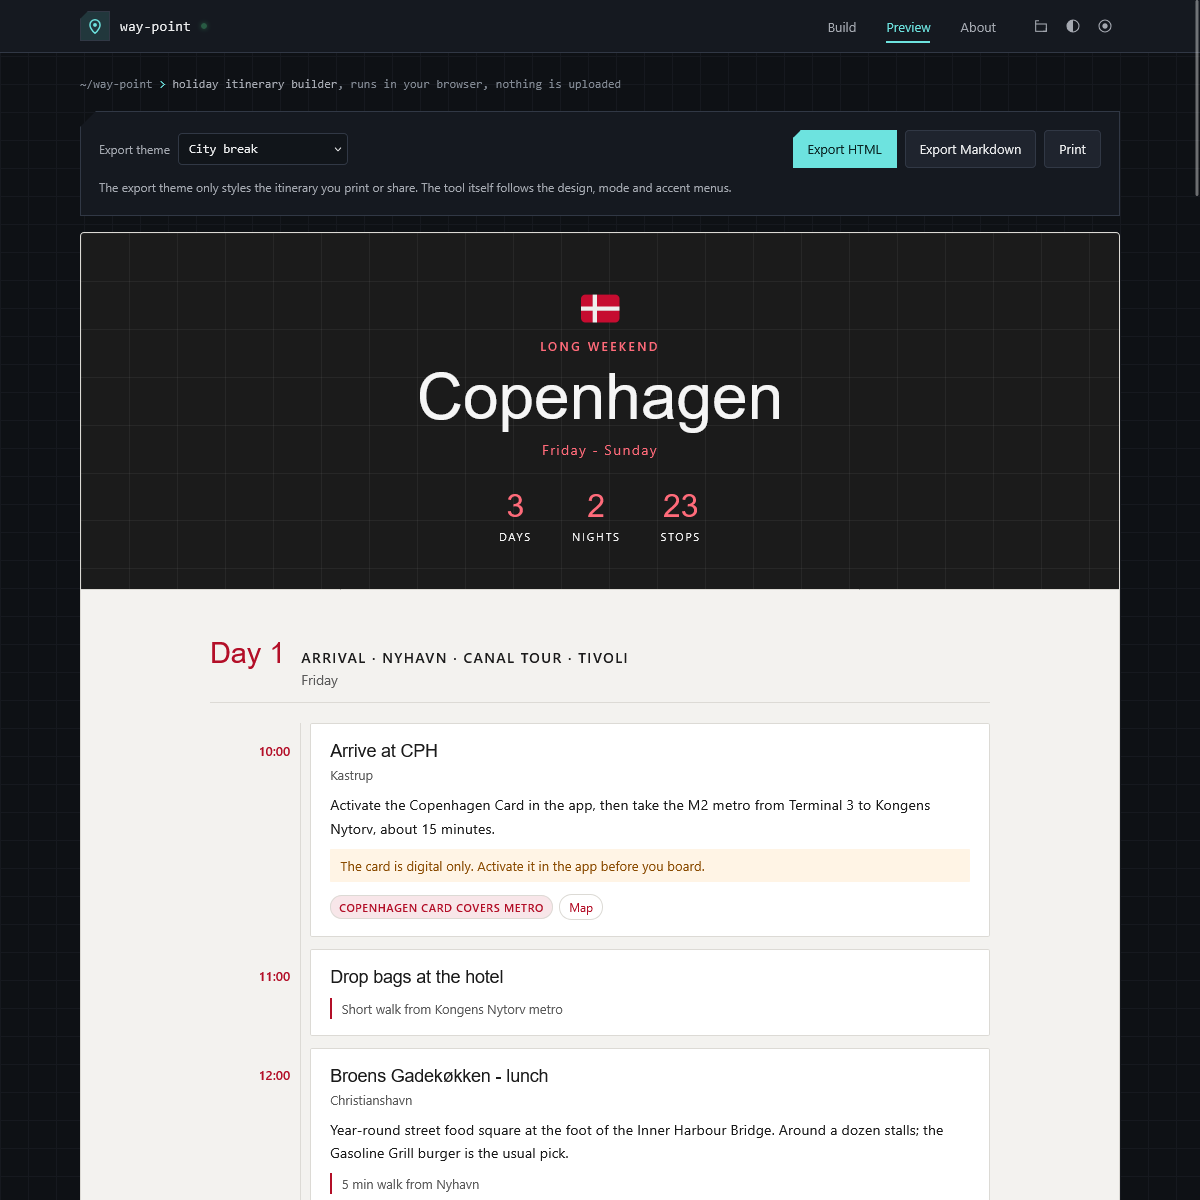
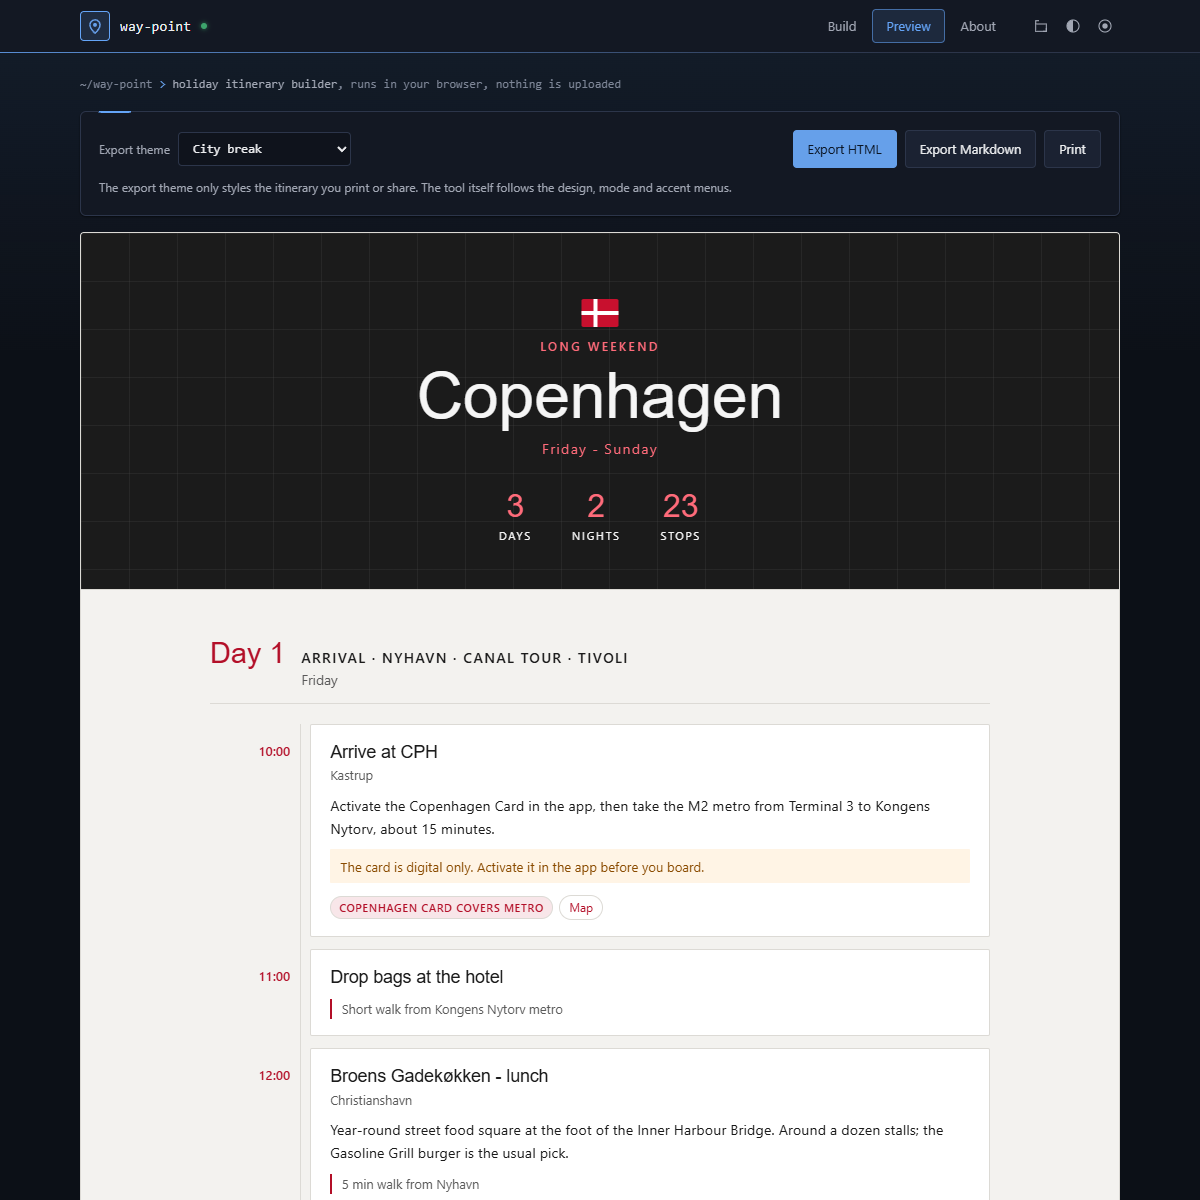
Replace the circuit design with cobalt and make it the default
Cobalt is a navy, blue-ruled design in place of the green circuit board
one. It is now the default and first in the design menu, with Azure as
the default accent. Screenshots retaken in the new default.

diff --git a/index.html b/index.html
@@ -1,5 +1,5 @@
 <!DOCTYPE html>
-<html lang="en" data-design="chamfer" data-mode="dark">
+<html lang="en" data-design="cobalt" data-mode="dark">
 <head>
 <meta charset="UTF-8">
 <meta name="viewport" content="width=device-width, initial-scale=1.0">
@@ -21,7 +21,7 @@
 
    One stylesheet, three independent axes:
 
-     data-design  chamfer | console | circuit | contour
+     data-design  cobalt | chamfer | console | contour
                   shape language, surface hue family, backdrop
                   texture, ornament. This is the "look".
 
@@ -61,15 +61,26 @@
     --ctl:      30px;   /* icon button / logo tile box */
 
     /* Accent defaults, overwritten inline by the picker. */
-    --ah: 178;
-    --ac: 68%;
+    --ah: 214;
+    --ac: 76%;
 }
 
 /* ============================================================
    Designs: hue family per mode group, shape, ornament switches
    ============================================================ */
 
-/* Cut corners, instrument grid. The house design. */
+/* Navy editor chrome, one constant blue rule. The house design. */
+html[data-design="cobalt"] {
+    --hd: 222; --sd: 30%;
+    --hw: 38;  --sw: 28%;
+    --hl: 216; --sl: 28%;
+    --radius: 6px;
+    --radius-sm: 4px;
+    --notch: 0px;
+    --notch-sm: 0px;
+}
+
+/* Cut corners, instrument grid. */
 html[data-design="chamfer"] {
     --hd: 218; --sd: 20%;    /* dark + dusk surfaces */
     --hw: 36;  --sw: 30%;    /* sepia surfaces */
@@ -87,17 +98,6 @@ html[data-design="console"] {
     --hl: 210; --sl: 7%;
     --radius: 0px;
     --radius-sm: 0px;
-    --notch: 0px;
-    --notch-sm: 0px;
-}
-
-/* Board colours, via grid, one constant plating. */
-html[data-design="circuit"] {
-    --hd: 152; --sd: 38%;
-    --hw: 40;  --sw: 34%;
-    --hl: 150; --sl: 8%;
-    --radius: 3px;
-    --radius-sm: 2px;
     --notch: 0px;
     --notch-sm: 0px;
 }
@@ -135,7 +135,7 @@ html[data-mode="dark"] {
     --warn: hsl(41 86% 60%);
     --bad:  hsl(5 85% 66%);
     --ok-ink: hsl(146 60% 8%);
-    --copper: #d3a24a;
+    --cobalt: hsl(214 90% 68%);
 }
 
 /* "Not as dark": same palette lifted off black, for rooms with
@@ -156,7 +156,7 @@ html[data-mode="dusk"] {
        3.96:1 and missed AA. This clears it at 4.51:1. */
     --bad:  hsl(5 82% 72%);
     --ok-ink: hsl(146 60% 9%);
-    --copper: #dcae5c;
+    --cobalt: hsl(214 88% 74%);
 }
 
 /* Warm paper. Bright but low glare. */
@@ -176,7 +176,7 @@ html[data-mode="sepia"] {
     --warn: hsl(32 78% 33%);
     --bad:  hsl(2 68% 44%);
     --ok-ink: hsl(40 40% 97%);
-    --copper: #96681a;
+    --cobalt: hsl(216 62% 38%);
 }
 
 /* Cool white. The print-adjacent one. */
@@ -194,7 +194,7 @@ html[data-mode="light"] {
     --warn: hsl(32 80% 33%);
     --bad:  hsl(2 70% 45%);
     --ok-ink: hsl(150 30% 99%);
-    --copper: #8a6410;
+    --cobalt: hsl(216 72% 42%);
 }
 
 /* ============================================================
@@ -281,13 +281,11 @@ html[data-design="console"] body::before {
         var(--line-soft) 0 1px, transparent 1px 6px);
     opacity: 0.32;
 }
-/* Via holes: a plated ring around a hole the colour of the board. */
-html[data-design="circuit"] body::before {
-    background-image:
-        radial-gradient(circle, var(--line) 1.4px, transparent 1.6px),
-        radial-gradient(circle, var(--bg) 0.7px, transparent 0.9px);
-    background-size: 30px 30px, 30px 30px;
-    opacity: 0.55;
+/* A faint blue light falling from the top edge, like a lit screen. */
+html[data-design="cobalt"] body::before {
+    background-image: linear-gradient(180deg,
+        color-mix(in srgb, var(--cobalt) 9%, transparent), transparent 360px);
+    opacity: 1;
 }
 /* A single soft wash in the current accent, and nothing else. */
 html[data-design="contour"] body::before {
@@ -327,17 +325,15 @@ html[data-design="chamfer"] .chamfer-sm {
     background: var(--card);
     border-bottom: 1px solid var(--line);
 }
-/* Circuit only: the gold contact fingers of a card-edge connector,
-   kept to a hairline so it reads as an edge and not a stripe. */
-html[data-design="circuit"] .topbar::after {
+/* Cobalt only: a blue hairline under the bar that fades out to the
+   right, so it reads as an edge and not a stripe. */
+html[data-design="cobalt"] .topbar::after {
     content: "";
     position: absolute;
-    left: 0; right: 0; bottom: -2px;
-    height: 2px;
-    background: repeating-linear-gradient(90deg,
-        var(--copper) 0, var(--copper) 5px,
-        transparent 5px, transparent 8px);
-    opacity: 0.7;
+    left: 0; right: 0; bottom: -1px;
+    height: 1px;
+    background: linear-gradient(90deg, var(--cobalt), transparent 75%);
+    opacity: 0.8;
 }
 /* Console only: the bar sits on a second hairline, like a rule under
    a header in a terminal UI. Drawn as a shadow, so it takes no space. */
@@ -407,7 +403,7 @@ html[data-design="chamfer"] .logo {
     border-radius: 0;
     clip-path: polygon(8px 0, 100% 0, 100% 100%, 0 100%, 0 8px);
 }
-html[data-design="circuit"] .logo { border-color: var(--copper); }
+html[data-design="cobalt"] .logo { border-color: var(--cobalt); }
 html[data-design="contour"] .logo { border-radius: 50%; }
 @keyframes logo-in {
     from { opacity: 0; transform: scale(0.75); }
@@ -451,7 +447,14 @@ html[data-design="contour"] .tab[aria-selected="true"] { background: var(--accen
 html[data-design="console"] .tab::after,
 html[data-design="contour"] .tab::after { display: none; }
 html[data-design="contour"] .tab { border-radius: 999px; }
-html[data-design="circuit"] .tab[aria-selected="true"]::after { background: var(--copper); }
+/* Cobalt: the selected tab is a boxed chip, like a picker in a toolbar.
+   The border was already there, transparent, so nothing moves. */
+html[data-design="cobalt"] .tab[aria-selected="true"] {
+    color: var(--cobalt);
+    background: color-mix(in srgb, var(--cobalt) 12%, transparent);
+    border-color: color-mix(in srgb, var(--cobalt) 55%, transparent);
+}
+html[data-design="cobalt"] .tab::after { display: none; }
 
 /* ---------- Menus: design, mode, accent ---------- */
 .bar-tools { display: flex; align-items: center; gap: 2px; flex: 0 0 auto; }
@@ -529,11 +532,12 @@ html[data-design="circuit"] .tab[aria-selected="true"]::after { background: var(
 .opt[data-set="console"] .dsw {
     background-image: repeating-linear-gradient(180deg, var(--fg-faint) 0 1px, transparent 1px 4px);
 }
-.opt[data-set="circuit"] .dsw {
-    border-radius: 2px;
-    background-image: radial-gradient(circle, var(--fg-faint) 1.2px, transparent 1.4px);
-    background-size: 8px 8px;
-    background-position: 1px 1px;
+.opt[data-set="cobalt"] .dsw {
+    border-radius: 3px;
+    background-image: linear-gradient(90deg, var(--fg-faint) 0 60%, transparent 60%);
+    background-size: 100% 1px;
+    background-repeat: no-repeat;
+    background-position: 0 4px;
 }
 .opt[data-set="contour"] .dsw { border-radius: 50%; }
 
@@ -667,16 +671,15 @@ html[data-design="console"] .panel::before {
     background: var(--accent);
     opacity: 0.55;
 }
-/* Circuit: a fiducial in the corner, the way a board marks its own
-   orientation. Sits in the padding, never in the content. */
-html[data-design="circuit"] .panel::before {
+/* Cobalt: a short blue rule on the top edge, like the marker on an
+   active editor tab. Sits on the border, never in the content. */
+html[data-design="cobalt"] .panel::before {
     content: "";
     position: absolute;
-    top: 6px; right: 6px;
-    width: 7px; height: 7px;
-    border: 1.5px solid var(--copper);
-    border-radius: 50%;
-    opacity: 0.65;
+    top: -1px; left: var(--pad);
+    width: 32px; height: 2px;
+    background: var(--cobalt);
+    border-radius: 0 0 2px 2px;
 }
 @media print { .panel { clip-path: none !important; } .panel::before { display: none; } }
 
@@ -975,11 +978,11 @@ html[data-design="console"] .notification {
     border-radius: 0;
     border-left-width: 3px;
 }
-html[data-design="circuit"] .notification {
-    border-left-color: var(--copper);
+html[data-design="cobalt"] .notification {
+    border-left-color: var(--cobalt);
 }
-html[data-design="circuit"] .notification::before { color: var(--copper); }
-html[data-design="circuit"] .notification.error { border-left-color: var(--bad); }
+html[data-design="cobalt"] .notification::before { color: var(--cobalt); }
+html[data-design="cobalt"] .notification.error { border-left-color: var(--bad); }
 /* Contour has no prompt chevron anywhere else, so it gets a lit dot
    instead: same 1ch of space, no reflow against the other designs. */
 html[data-design="contour"] .notification {
@@ -1030,7 +1033,7 @@ html[data-design="contour"] .notification.error::before { background: var(--bad)
         --line: #999999; --line-soft: #cccccc;
         --fg: #111111; --fg-dim: #555555; --fg-faint: #777777;
         --accent: #333333; --accent-soft: transparent; --accent-ink: #ffffff;
-        --copper: #555555;
+        --cobalt: #555555;
         --shadow: none; --shadow-lift: none;
     }
     body::before { display: none !important; }
@@ -1124,6 +1127,11 @@ details.stop-ed .body { padding: 10px; }
                 </button>
                 <div class="menu" id="designMenu" role="menu" hidden>
                     <div class="menu-title">Design</div>
+                    <button class="opt" role="menuitemradio" aria-checked="false" data-set="cobalt">
+                        <span class="dsw" aria-hidden="true"></span>
+                        <span class="lbl">Cobalt<small>navy chrome, blue rule, soft corners</small></span>
+                        <span class="tick" aria-hidden="true">&check;</span>
+                    </button>
                     <button class="opt" role="menuitemradio" aria-checked="false" data-set="chamfer">
                         <span class="dsw" aria-hidden="true"></span>
                         <span class="lbl">Chamfer<small>cut corners, instrument grid</small></span>
@@ -1132,11 +1140,6 @@ details.stop-ed .body { padding: 10px; }
                     <button class="opt" role="menuitemradio" aria-checked="false" data-set="console">
                         <span class="dsw" aria-hidden="true"></span>
                         <span class="lbl">Console<small>square, graphite, scan rules</small></span>
-                        <span class="tick" aria-hidden="true">&check;</span>
-                    </button>
-                    <button class="opt" role="menuitemradio" aria-checked="false" data-set="circuit">
-                        <span class="dsw" aria-hidden="true"></span>
-                        <span class="lbl">Circuit<small>board colours, via grid, copper</small></span>
                         <span class="tick" aria-hidden="true">&check;</span>
                     </button>
                     <button class="opt" role="menuitemradio" aria-checked="false" data-set="contour">
@@ -1196,11 +1199,11 @@ details.stop-ed .body { padding: 10px; }
                     <div class="wheel-wrap">
                         <div class="wheel" id="wheel" tabindex="0" role="slider"
                              aria-label="Accent colour wheel. Left and right change hue, up and down change intensity."
-                             aria-valuemin="0" aria-valuemax="359" aria-valuenow="178" aria-valuetext="Teal">
+                             aria-valuemin="0" aria-valuemax="359" aria-valuenow="214" aria-valuetext="Azure">
                             <span class="wheel-dot" id="wheelDot" aria-hidden="true"></span>
                         </div>
                         <div class="accent-foot">
-                            <span>Accent: <span class="now" id="accentNow">Teal</span></span>
+                            <span>Accent: <span class="now" id="accentNow">Azure</span></span>
                             <label class="hexin" title="Match a brand colour exactly. The lightness is still set per mode.">#<input
                                 type="text" class="field" id="accentHex" maxlength="7" placeholder="2ec4b6"
                                 spellcheck="false" autocomplete="off" aria-label="Accent colour as hex"></label>
@@ -1368,7 +1371,7 @@ function notify(msg, isError) {
    ============================================================ */
 const root = document.documentElement;
 
-const DESIGNS = ["chamfer", "console", "circuit", "contour"];
+const DESIGNS = ["cobalt", "chamfer", "console", "contour"];
 const MODES   = ["dark", "dusk", "sepia", "light"];
 
 /* Hue plus chroma. Kept clear of the green, amber and red that --ok,
@@ -1384,7 +1387,10 @@ const ACCENTS = [
     { id: "slate",  name: "Slate",  h: 210, c: 18 }
 ];
 
-let accent = { h: 178, c: 68, name: "Teal" };
+/* Azure suits the default cobalt design. */
+const DEFAULT_ACCENT = ACCENTS.find(a => a.id === "azure");
+
+let accent = { h: DEFAULT_ACCENT.h, c: DEFAULT_ACCENT.c, name: DEFAULT_ACCENT.name };
 
 /* ---------- keeping an arbitrary hue readable ----------
    HSL lightness is not perceptual: hsl(178 68% 40%) and
@@ -1652,7 +1658,7 @@ applyMode(store.get("mode") || MODES[0], false);
 (() => {
     let a = null;
     try { a = JSON.parse(store.get("accent")); } catch (e) {}
-    applyAccent(a && isFinite(a.h) ? a : ACCENTS[0], false);
+    applyAccent(a && isFinite(a.h) ? a : DEFAULT_ACCENT, false);
 })();
 
 /* ---------- tabs ---------- */
